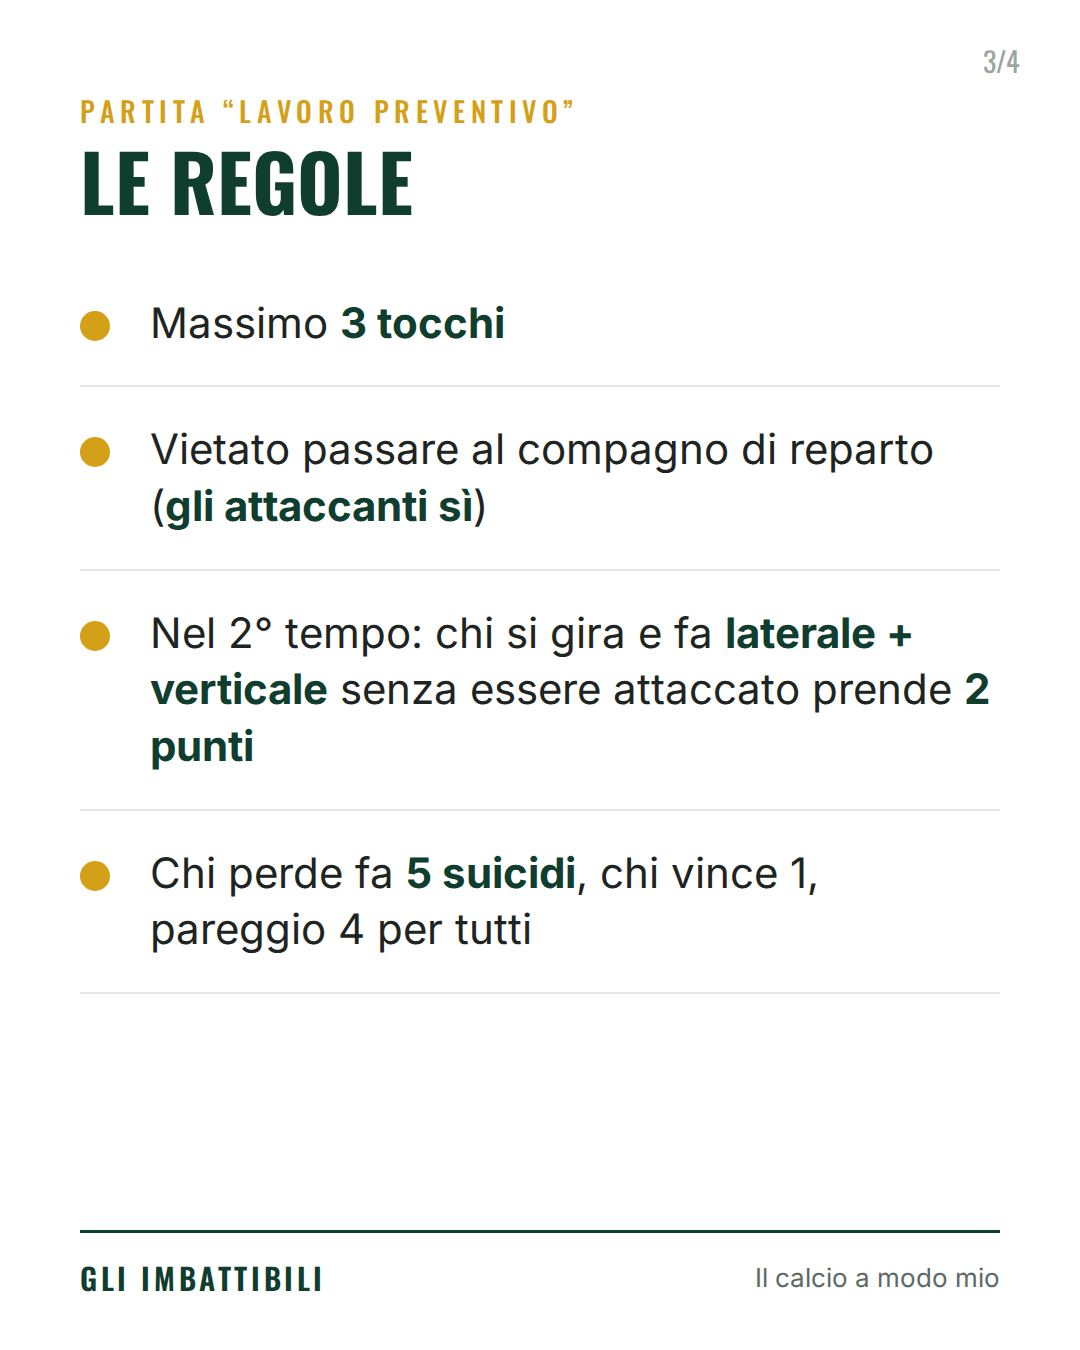
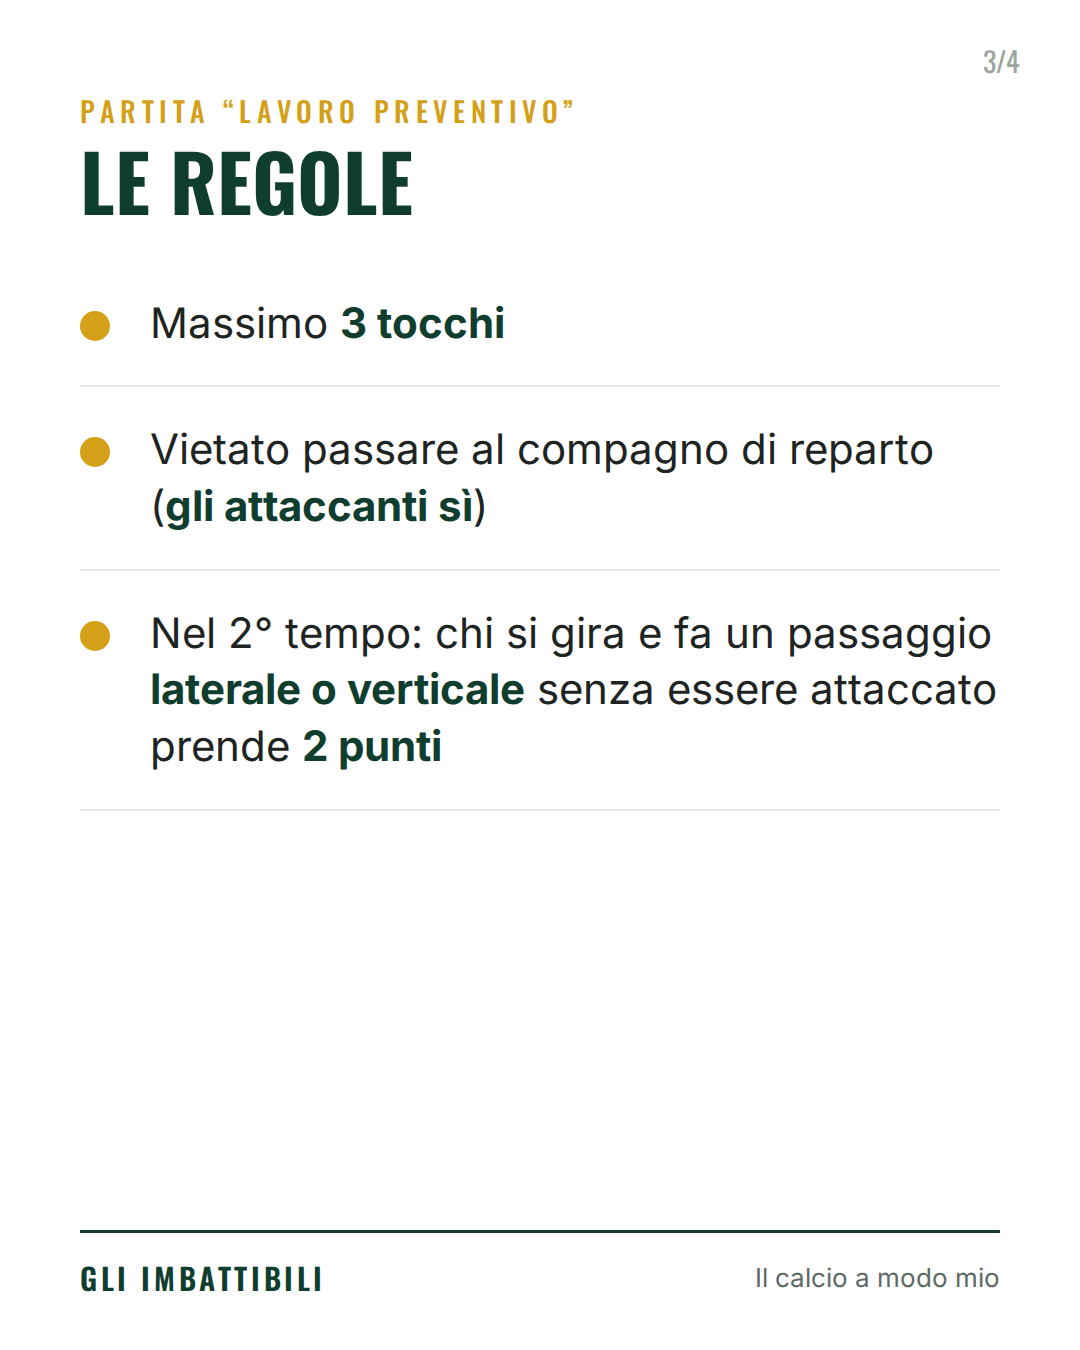
Post 2: tolti i suicidi, laterale O verticale
Claude-Session: https://claude.ai/code/session_01T1DvqVhXRKVRXxiAqrgsV9

Changed region(s): [[0.1222, 0.4356, 0.9167, 0.5911], [0.0611, 0.6222, 0.7639, 0.7156]]

diff --git a/marketing/social/post-4x5.html b/marketing/social/post-4x5.html
@@ -136,7 +136,7 @@ h1, h2 { font-family: Oswald, sans-serif; font-weight: 700; text-transform: uppe
   <div class="num">3/4</div>
   <div class="kicker">Partita “lavoro preventivo”</div>
   <h2>Le regole</h2>
-  <ul class="punti"><li>Massimo <b>3 tocchi</b></li><li>Vietato passare al compagno di reparto (<b>gli attaccanti sì</b>)</li><li>Nel 2° tempo: chi si gira e fa <b>laterale + verticale</b> senza essere attaccato prende <b>2 punti</b></li><li>Chi perde fa <b>5 suicidi</b>, chi vince 1, pareggio 4 per tutti</li></ul>
+  <ul class="punti"><li>Massimo <b>3 tocchi</b></li><li>Vietato passare al compagno di reparto (<b>gli attaccanti sì</b>)</li><li>Nel 2° tempo: chi si gira e fa un passaggio <b>laterale o verticale</b> senza essere attaccato prende <b>2 punti</b></li></ul>
   <div class="marchio"><b>GLI IMBATTIBILI</b><span>Il calcio a modo mio</span></div>
 </section>
 <section class="slide fine">

diff --git a/marketing/social/post-9x16.html b/marketing/social/post-9x16.html
@@ -136,7 +136,7 @@ h1, h2 { font-family: Oswald, sans-serif; font-weight: 700; text-transform: uppe
   <div class="num">3/4</div>
   <div class="kicker">Partita “lavoro preventivo”</div>
   <h2>Le regole</h2>
-  <ul class="punti"><li>Massimo <b>3 tocchi</b></li><li>Vietato passare al compagno di reparto (<b>gli attaccanti sì</b>)</li><li>Nel 2° tempo: chi si gira e fa <b>laterale + verticale</b> senza essere attaccato prende <b>2 punti</b></li><li>Chi perde fa <b>5 suicidi</b>, chi vince 1, pareggio 4 per tutti</li></ul>
+  <ul class="punti"><li>Massimo <b>3 tocchi</b></li><li>Vietato passare al compagno di reparto (<b>gli attaccanti sì</b>)</li><li>Nel 2° tempo: chi si gira e fa un passaggio <b>laterale o verticale</b> senza essere attaccato prende <b>2 punti</b></li></ul>
   <div class="marchio"><b>GLI IMBATTIBILI</b><span>Il calcio a modo mio</span></div>
 </section>
 <section class="slide fine">

diff --git a/marketing/social/genera-post.py b/marketing/social/genera-post.py
@@ -108,8 +108,7 @@ POST = [
         titolo3="Le regole",
         punti=["Massimo <b>3 tocchi</b>",
                "Vietato passare al compagno di reparto (<b>gli attaccanti sì</b>)",
-               "Nel 2° tempo: chi si gira e fa <b>laterale + verticale</b> senza essere attaccato prende <b>2 punti</b>",
-               "Chi perde fa <b>5 suicidi</b>, chi vince 1, pareggio 4 per tutti"],
+               "Nel 2° tempo: chi si gira e fa un passaggio <b>laterale o verticale</b> senza essere attaccato prende <b>2 punti</b>"],
     ),
     dict(
         n=3, foto="allenamento-03.jpg",

diff --git a/CLAUDE.md b/CLAUDE.md
@@ -94,7 +94,7 @@ Playwright e Chromium sono già installati nell'ambiente. I font sono locali
 - Allenamento 1 ✅ completo e confermato.
 - Allenamento 2 ✅ completo; in attesa di conferma sulla nuova versione di "Ti lascio alle spalle".
 - Allenamento 3 ✅ completo e confermato (125'; gioco di posizione 30 × 30 m, 15 passaggi = 1 punto).
-- Allenamento 4 ✅ completo (95' + suicidi; marcature preventive; 3' di recupero tra i blocchi atletici). Cross in diagonale invertita confermato.
+- Allenamento 4 ✅ completo (95' + suicidi; marcature preventive; **2° tempo: passaggio laterale O verticale** (6/10, nel PDF c'è "e": da correggere in ALLENAMENTI); 3' di recupero tra i blocchi atletici). Cross in diagonale invertita confermato.
 - Allenamento 5 ✅ completo e confermato (113'; uscite della difesa sul centrocampo a partita, 4 serie da 4' tutte a punti con 2' di recupero).
 - Allenamento 6 ✅ completo e confermato (100'; pressione a squadra corta, gol normale 1 punto; nell'attacco contro difesa X difende e O attacca).
 - Allenamento 7 ✅ completo e confermato (100'; vincolo di reparto solo nel 1° tempo, scaletta 8 volte). Punizioni difensive: l'allenatore non spiega il suo metodo, ognuno le gestisce come crede.

diff --git a/marketing/social/testi-dei-post.md b/marketing/social/testi-dei-post.md
@@ -41,8 +41,7 @@ Come difendevamo sui cross con la Juniores che non ha mai perso 👇 #allenatore
 
 In questa partita il gol non conta.
 Il punto lo fa chi riceve spalle alla porta e riesce a girarsi. Così chi difende impara a stare addosso all'avversario prima che arrivi la palla.
-Massimo 3 tocchi e vietato passare al compagno di reparto (agli attaccanti sì). Nel secondo tempo chi si gira e fa passaggio laterale e verticale senza essere attaccato prende 2 punti.
-Chi perde fa 5 suicidi a fine allenamento, chi vince 1. Vi assicuro che nessuno ci sta a perdere.
+Massimo 3 tocchi e vietato passare al compagno di reparto (agli attaccanti sì). Nel secondo tempo chi si gira e fa un passaggio laterale o verticale senza essere attaccato prende 2 punti.
 
 **Instagram**
 
